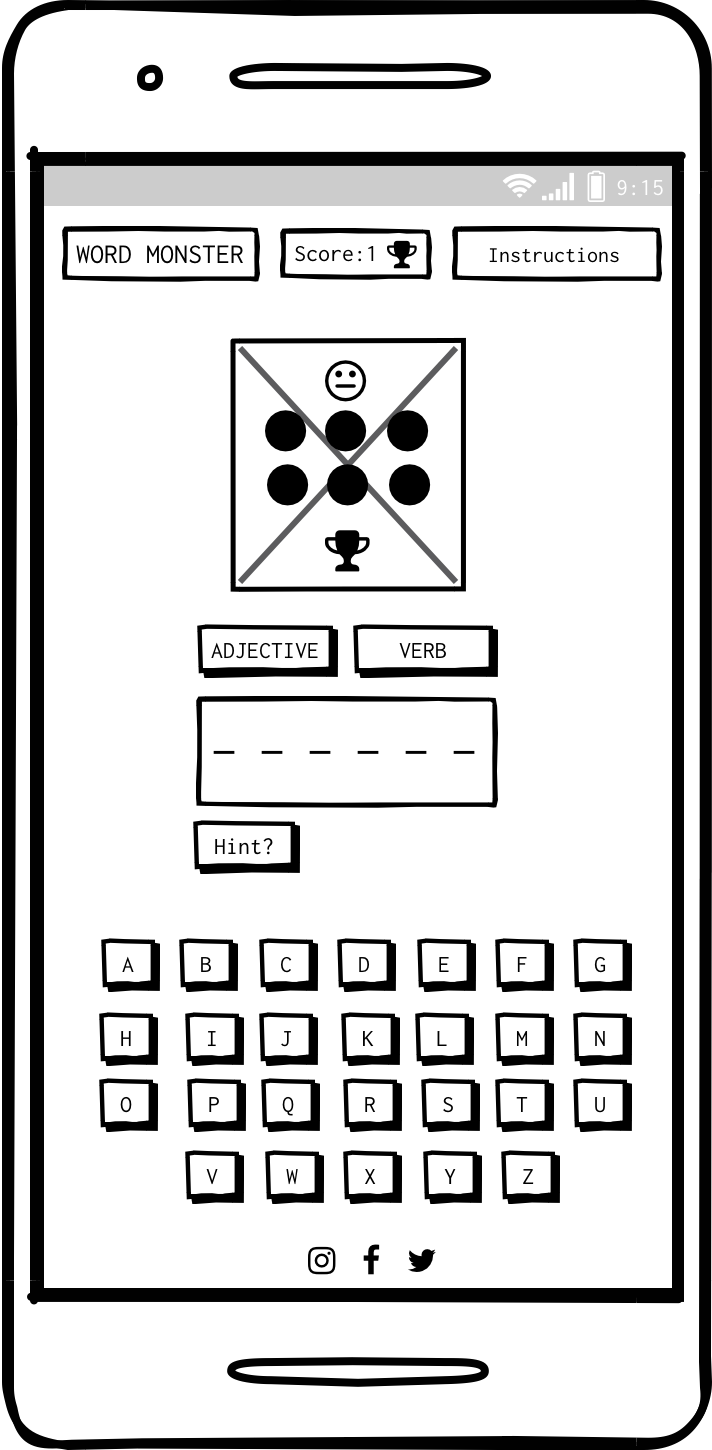
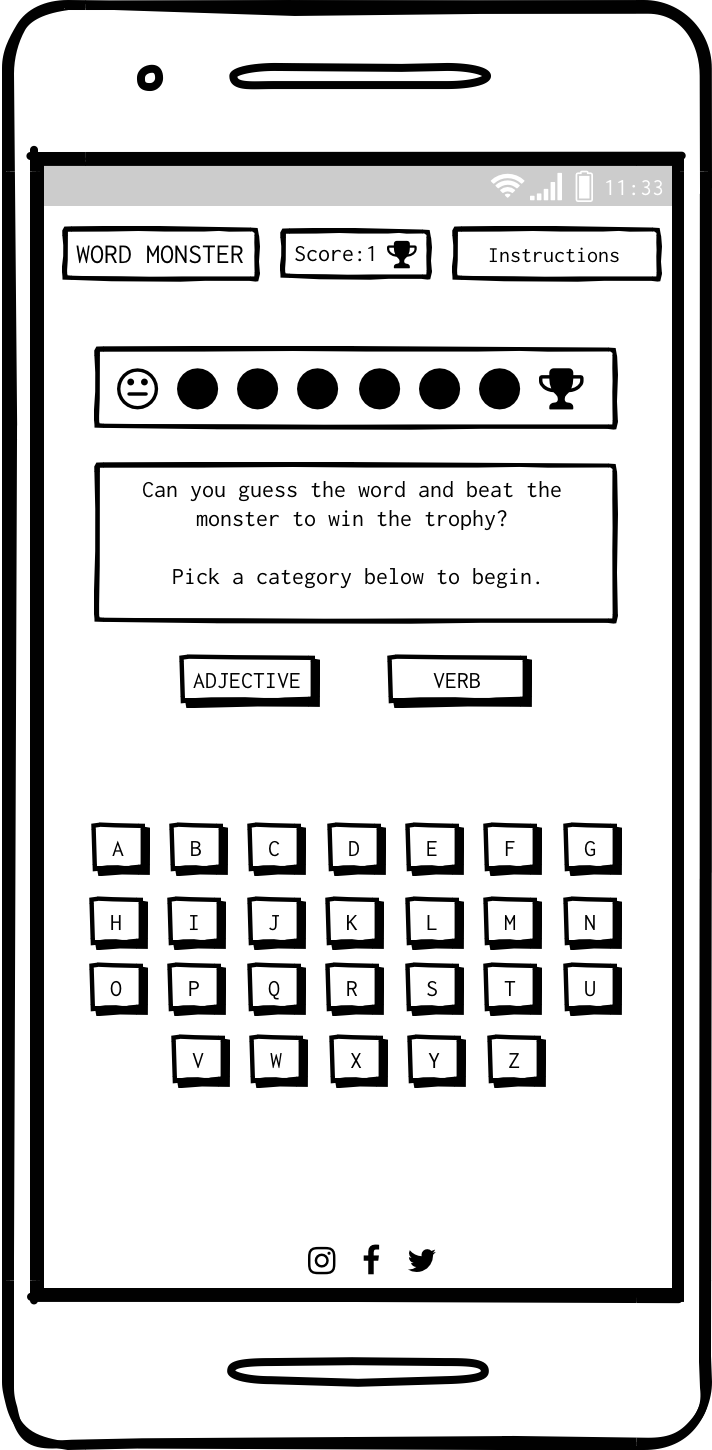
docs: add new wireframes and update in Wireframe section readme.md

Changed region(s): [[0.1236, 0.2172, 0.8961, 0.8379], [0.7107, 0.1241, 0.8652, 0.1552]]

diff --git a/README.md b/README.md
@@ -23,6 +23,7 @@ The game is aimed at children as a way of helping them to learn words and how th
 - And to provide a game for adults who want to brush up on their spelling and/or vocabulary, or just want to exercise their brain a little bit, or play the game for a few minutes of distraction from daily life.
 
 ## User Experience (UX)
+---
 - ### User stories
 Note: there is no login or registered users on this site so each user story is from the point of view of a visiting user.
 1. As a visiting user, I want to find out how to play the game so that I can start to play
@@ -38,23 +39,25 @@ Note: there is no login or registered users on this site so each user story is f
 11. As a visiting user, I want to know how many games I have won during this session of playing.
 
 - ### Design
-    - #### Colour scheme
-    - #### Typography
+  - #### Colour scheme
+  - #### Typography
 - ### Wireframes
-    - Desktop/tablet wireframes:
-        - [Homepage](docs/wireframes/home-desktop-tablet.png)
-        - [Instructions](docs/wireframes/instructions-desktop-tablet.png)
-        - [Won game](docs/wireframes/won-game-desktop.png)
-        - [Lost game](docs/wireframes/lost-game-desktop.png)
+  - Desktop/tablet wireframes:
+    - [Homepage](docs/wireframes/home-desktop-tablet.png)
+    - [Instructions](docs/wireframes/instructions-desktop-tablet.png)
+    - [Won game](docs/wireframes/won-game-desktop.png)
+    - [Lost game](docs/wireframes/lost-game-desktop.png)
 
-    - Mobile wireframes:
-        - [Homepage](docs/wireframes/home-mobile.png)
-        - [Instructions](docs/wireframes/instructions-mobile.png)
-        - [Won game](docs/wireframes/won-game-mobile.png)
-        - [Lost game](docs/wireframes/lost-game-mobile.png)
-    - [View all wireframes in pdf here.](docs/wireframes/wireframes-all.pdf)
+  - Mobile wireframes:
+    - [Homepage - game not started](docs/wireframes/home-mobile.png)
+    - [Instructions](docs/wireframes/instructions-mobile.png)
+    - [Game in progress](docs/wireframes/game-in-play-mobile.png)
+    - [Game over - user won game](docs/wireframes/game-over-won-mobile.png)
+    - [Game over - user lost game](docs/wireframes/game-over-lost-mobile.png)
+  - [View all wireframes in pdf here.](docs/wireframes/wireframes-all.pdf)
     
 ## Features
+---
 ### Existing Features
 - #### Header
   - Top of the page, contains game name on the left, Score and Instructions on the right.
